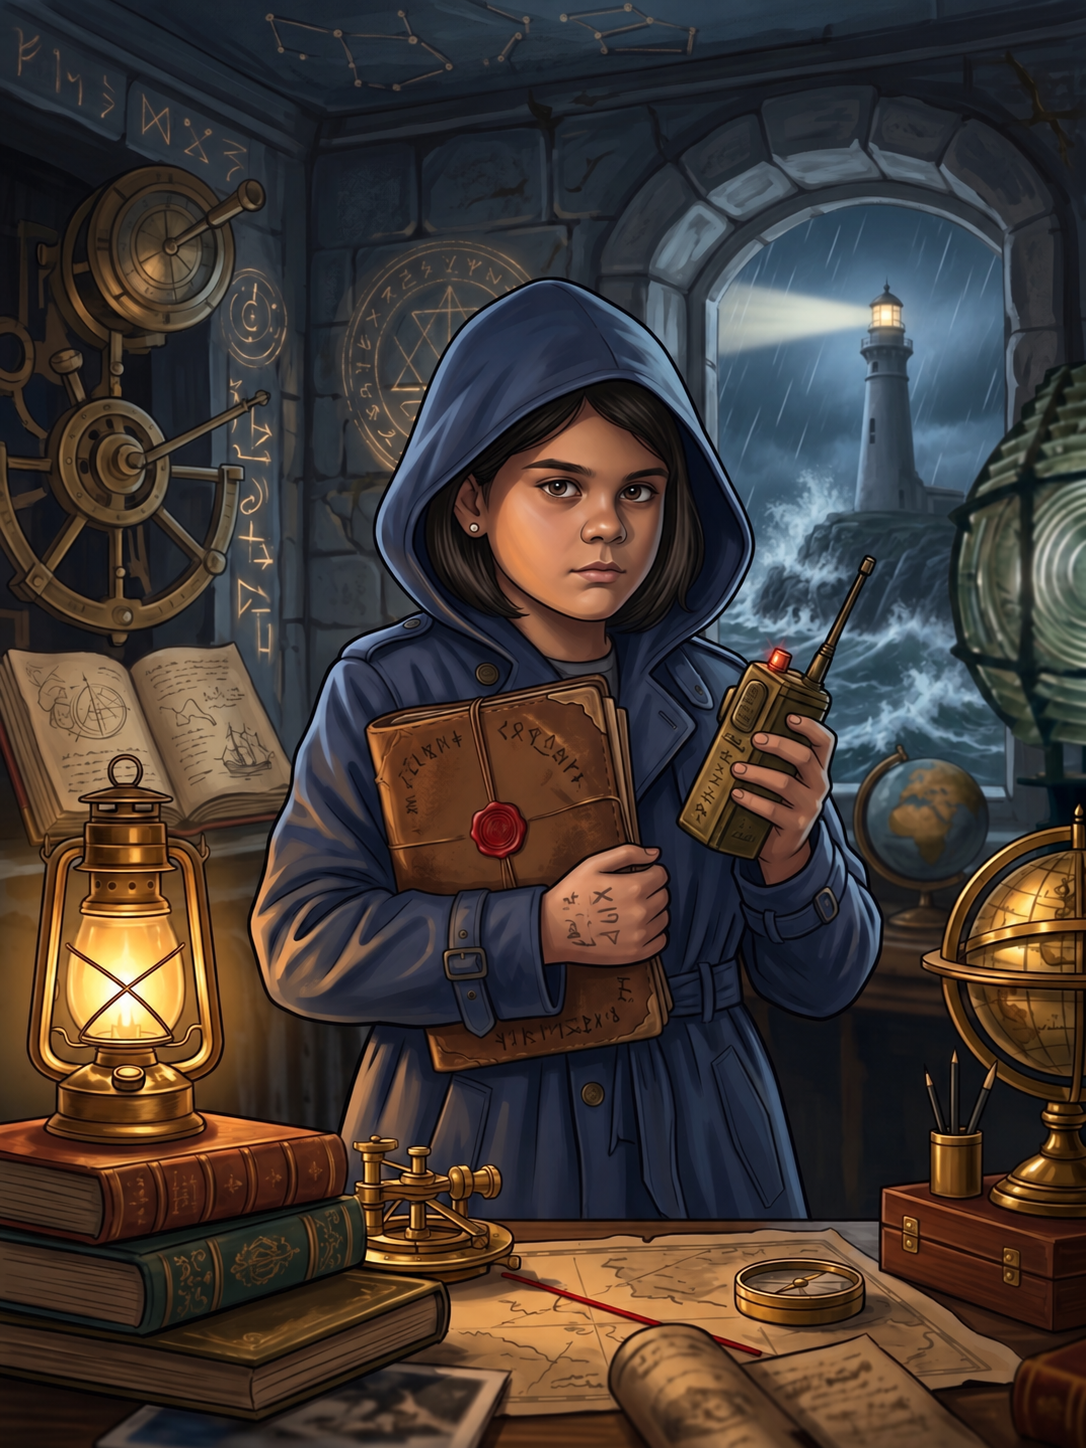
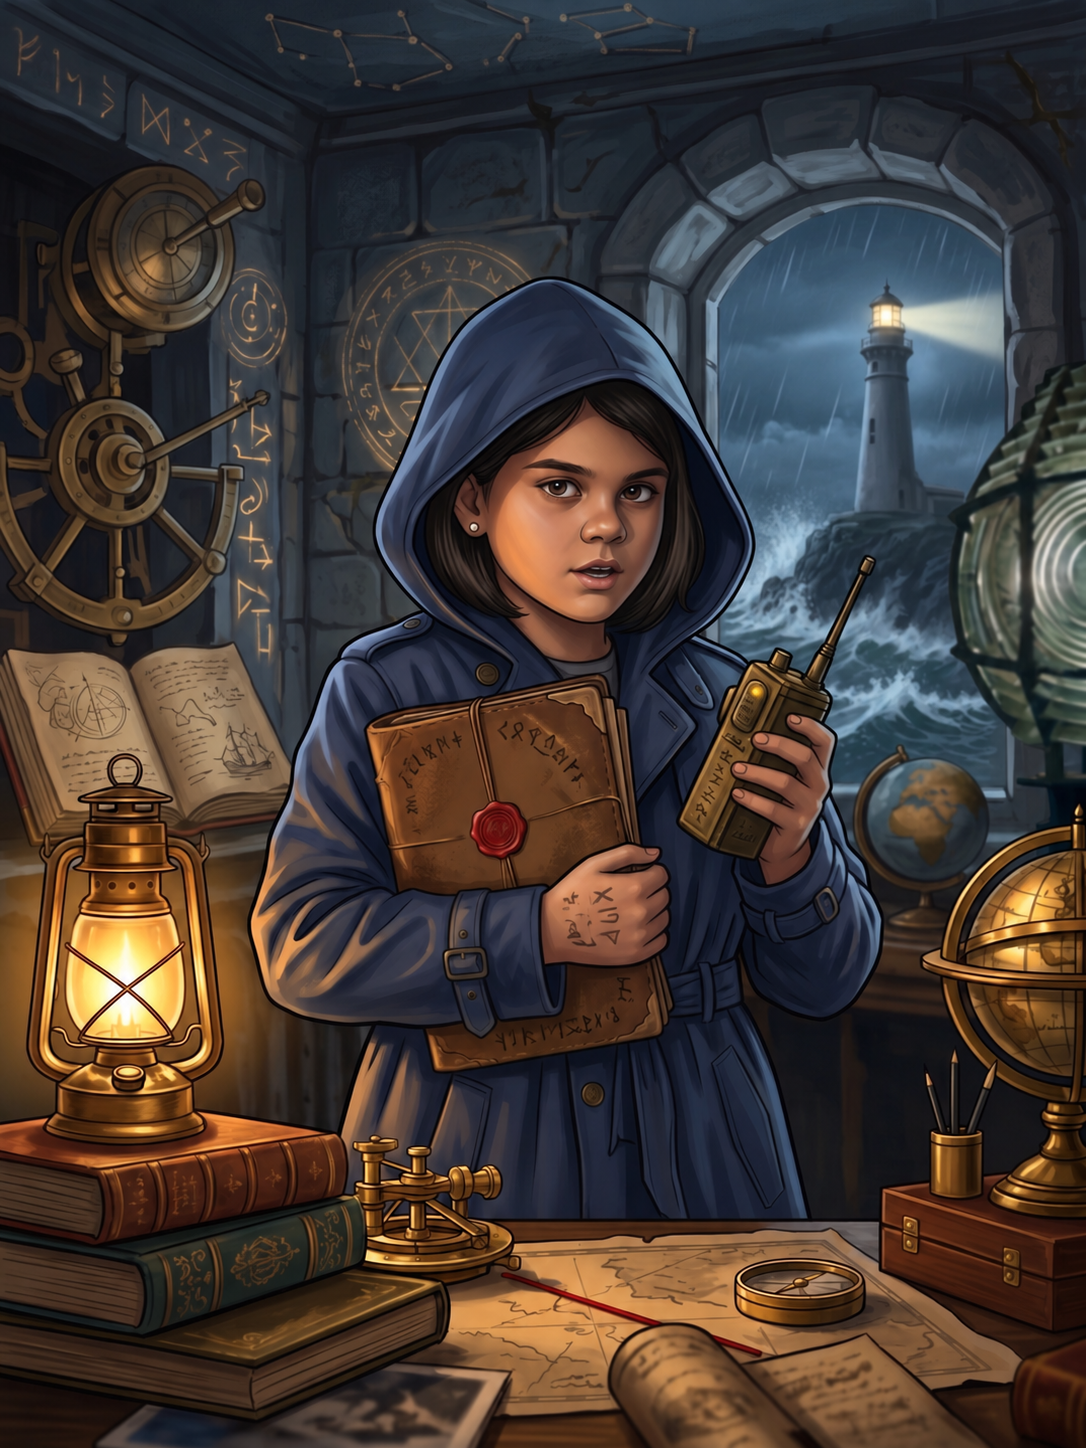
Animate transmitter scene with twenty frames

diff --git a/temp-vite-app/detectives/Briefing.tsx b/temp-vite-app/detectives/Briefing.tsx
@@ -1,7 +1,7 @@
 import TransmissionPlayer from './TransmissionPlayer';
 import { briefingCues } from './briefing-cues';
 import Typewriter from './Typewriter';
-import { useState, useRef, useEffect } from 'react';
+import { useState, useRef, useEffect, type CSSProperties } from 'react';
 import { briefing } from './mission-script';
 import { MissionIcon } from './MissionMap';
 const dossiers=[
@@ -10,7 +10,7 @@ const dossiers=[
  {title:'Los archivos',subtitle:'¿Dónde buscar las pistas?',icon:2,paragraphs:[2,3]},
  {title:'El juramento',subtitle:'¿Cuál es tu misión?',icon:8,paragraphs:[4,5,6]},
 ];
-const transmitterFrames=[1,2,3,4,5,6].map(frame=>`/los-archivos-f/images/federica-transmisor-frame-${frame}.png`);
+const transmitterFrames=Array.from({length:20},(_,index)=>`/los-archivos-f/images/federica-transmisor-frame-${index+1}.png`);
 export default function Briefing({agent,alreadyAccepted,onComplete}:{agent:string;alreadyAccepted:boolean;onComplete:()=>void}) {
  const [available,setAvailable]=useState(0);
  const [following,setFollowing]=useState(false);
@@ -61,7 +61,7 @@ export default function Briefing({agent,alreadyAccepted,onComplete}:{agent:strin
  const canAccept=alreadyAccepted||ready||discovered.length===4;
  return <section className={`briefing-page discovery-briefing ${tourStep?`briefing-tour tour-step-${tourStep}`:''} ${archiveRoute?'archive-route':''}`}>
   {tourStep>0&&<><div className="briefing-tour-shade" onClick={advanceTour} aria-hidden="true"/><div className="briefing-tour-helper" role="status"><b>{['','PUESTO SECRETO','MENSAJE RECUPERADO','TRANSMISIÓN','DOCUMENTOS CONFIDENCIALES','ARCHIVO REVELADO','ACEPTAR LA MISIÓN'][tourStep]}</b><span>Tocá la zona iluminada o continuá para seguir.</span><button type="button" onClick={advanceTour}>{tourStep===6?'ENTENDIDO':'CONTINUAR'} →</button><button type="button" className="tour-skip" onClick={()=>setTourStep(0)}>Saltar guía</button></div></>}
-  <div className="briefing-left"><figure className="federica-scene" onClick={event=>{if(tourStep===1&&!(event.target as Element).closest('button'))advanceTour();}}><div className="federica-scene-visual transmitter-story-frames">{transmitterFrames.map((src,index)=><img className={`transmitter-story-frame transmitter-story-frame-${index}`} src={src} alt={index===0?'Federica te espera en el archivo del faro con una carpeta confidencial y una radio':''} aria-hidden={index>0} key={src}/>)}<span className="lighthouse-beam" aria-hidden="true"/><span className="lighthouse-lamp" aria-hidden="true"/><span className="briefing-lantern-glow" aria-hidden="true"/><button className="scene-hotspot radio-hotspot" onClick={toggleRadio} aria-expanded={radioOpen} aria-controls="federica-transmission"><span>◉</span> Sintonizar radio</button><button className="scene-hotspot folder-hotspot" onClick={()=>{discover(0);revealArea('dossier-content');}}><span>⌕</span> Examinar archivos</button></div><figcaption><span className="signal-dot"/> CONTACTO ESTABLECIDO <b>AGENTE FEDERICA · AGENCIA F</b></figcaption></figure><section className="mission-acceptance dossier-folio" onClick={event=>{if(tourStep===6&&!(event.target as Element).closest('button'))advanceTour();}}><h2>¿Aceptás la misión?</h2><p>Revisá los documentos para acceder y abrir el expediente. El Rubí del Faro nos está esperando.</p><div className="briefing-unlock"><p>Podés escuchar la transmisión completa o abrir los cuatro documentos. No hace falta terminar cada audio: con recorrerlos alcanza.</p>{canAccept&&<p role="status">{alreadyAccepted?'La misión sigue disponible para consultarla cuando quieras.':'Autorización concedida. El caso te espera.'}</p>}<button className="primary-button" disabled={!canAccept} onClick={()=>{audio.current?.pause();documentAudio.current?.pause();onComplete();}}>{alreadyAccepted?'VOLVER A LA INVESTIGACIÓN':'ACEPTAR MISIÓN Y COMENZAR NIVEL 1'} <span>→</span></button>{!canAccept&&<button className="reading-choice" onClick={explainDocuments}>Mostrar qué falta</button>}</div></section></div>
+  <div className="briefing-left"><figure className="federica-scene" onClick={event=>{if(tourStep===1&&!(event.target as Element).closest('button'))advanceTour();}}><div className="federica-scene-visual transmitter-story-frames">{transmitterFrames.map((src,index)=><img className="transmitter-story-frame" style={{'--transmitter-frame-delay':`${-index*.4}s`} as CSSProperties} src={src} alt={index===0?'Federica te espera en el archivo del faro con una carpeta confidencial y una radio':''} aria-hidden={index>0} key={src}/>)}<button className="scene-hotspot radio-hotspot" onClick={toggleRadio} aria-expanded={radioOpen} aria-controls="federica-transmission"><span>◉</span> Sintonizar radio</button><button className="scene-hotspot folder-hotspot" onClick={()=>{discover(0);revealArea('dossier-content');}}><span>⌕</span> Examinar archivos</button></div><figcaption><span className="signal-dot"/> CONTACTO ESTABLECIDO <b>AGENTE FEDERICA · AGENCIA F</b></figcaption></figure><section className="mission-acceptance dossier-folio" onClick={event=>{if(tourStep===6&&!(event.target as Element).closest('button'))advanceTour();}}><h2>¿Aceptás la misión?</h2><p>Revisá los documentos para acceder y abrir el expediente. El Rubí del Faro nos está esperando.</p><div className="briefing-unlock"><p>Podés escuchar la transmisión completa o abrir los cuatro documentos. No hace falta terminar cada audio: con recorrerlos alcanza.</p>{canAccept&&<p role="status">{alreadyAccepted?'La misión sigue disponible para consultarla cuando quieras.':'Autorización concedida. El caso te espera.'}</p>}<button className="primary-button" disabled={!canAccept} onClick={()=>{audio.current?.pause();documentAudio.current?.pause();onComplete();}}>{alreadyAccepted?'VOLVER A LA INVESTIGACIÓN':'ACEPTAR MISIÓN Y COMENZAR NIVEL 1'} <span>→</span></button>{!canAccept&&<button className="reading-choice" onClick={explainDocuments}>Mostrar qué falta</button>}</div></section></div>
   <div className="briefing-copy"><div className="briefing-heading" onClick={()=>{if(tourStep===1)advanceTour();}}><p className="eyebrow">EXPLORÁ EL PUESTO SECRETO</p><h1>Agente {agent},<br/>hay algo que debés descubrir.</h1></div><p className="briefing-deck" onClick={()=>{if(tourStep===2)advanceTour();}}><Typewriter text="Federica dejó una transmisión y cuatro documentos. Escuchá la radio o descubrí los documentos, una parte a la vez, para reunir los detalles de tu misión."/></p>
    <div className={`transmission-receiver ${playing?'is-playing':''}`} onClick={event=>{if(tourStep===3&&!(event.target as Element).closest('button,input'))advanceTour();}}>
     <button className="transmission-trigger" onClick={toggleRadio} aria-expanded={radioOpen} aria-controls="federica-transmission">

diff --git a/temp-vite-app/detectives/style.css b/temp-vite-app/detectives/style.css
@@ -2158,50 +2158,26 @@ body:has(.level-three-story-dialog[open]) .topbar{background:#03131d!important}
   }
 }
 
-/* Puesto secreto: los cuatro fotogramas entregados animan mar y lluvia sin
-   encoger la ilustración. Las luces se posicionan sobre el faro y el farol. */
+/* Puesto secreto: 20 fotogramas consecutivos de Fede con el transmisor.
+   La lluvia, las olas, el faro, el farol y su gesto ya viven en las imágenes. */
 .federica-scene-visual.transmitter-story-frames{position:relative;isolation:isolate}
 .federica-scene-visual.transmitter-story-frames>.transmitter-story-frame{
   position:absolute!important;z-index:0!important;inset:0!important;
   display:block!important;width:100%!important;height:100%!important;
   object-fit:cover!important;object-position:center!important;opacity:0;
-  animation:transmitter-story-frames 5.4s linear infinite!important;
-  will-change:opacity,transform
-}
-.federica-scene-visual.transmitter-story-frames>.transmitter-story-frame-0{animation-delay:0s!important}
-.federica-scene-visual.transmitter-story-frames>.transmitter-story-frame-1{animation-delay:-4.5s!important}
-.federica-scene-visual.transmitter-story-frames>.transmitter-story-frame-2{animation-delay:-3.6s!important}
-.federica-scene-visual.transmitter-story-frames>.transmitter-story-frame-3{animation-delay:-2.7s!important}
-.federica-scene-visual.transmitter-story-frames>.transmitter-story-frame-4{animation-delay:-1.8s!important}
-.federica-scene-visual.transmitter-story-frames>.transmitter-story-frame-5{animation-delay:-.9s!important}
-.federica-scene-visual.transmitter-story-frames .lighthouse-lamp{
-  z-index:4!important;left:81.8%!important;top:24.1%!important;width:3.4%!important;
-  animation:transmitter-lighthouse-glow 2.8s ease-in-out infinite!important
-}
-.federica-scene-visual.transmitter-story-frames .lighthouse-beam{
-  z-index:3!important;right:18.2%!important;top:18.4%!important;width:50%!important;height:14%!important;
-  animation:transmitter-lighthouse-sweep 5.4s ease-in-out infinite alternate!important
-}
-.federica-scene-visual.transmitter-story-frames .briefing-lantern-glow{
-  z-index:3!important;animation:transmitter-lantern-pulse 2.4s ease-in-out infinite!important
+  animation:transmitter-story-frames 8s linear infinite!important;
+  animation-delay:var(--transmitter-frame-delay)!important;
+  will-change:opacity
 }
 .federica-scene-visual.transmitter-story-frames .scene-hotspot{z-index:6!important}
 @keyframes transmitter-story-frames{
   0%{opacity:0}
-  7%,16.7%{opacity:1}
-  26%,100%{opacity:0}
+  1.25%,4.25%{opacity:1}
+  5.5%,100%{opacity:0}
 }
-@keyframes transmitter-lighthouse-sweep{
-  from{transform:rotate(-6deg);opacity:.3}45%{opacity:.94}to{transform:rotate(7deg);opacity:.4}
-}
-@keyframes transmitter-lighthouse-glow{0%,100%{opacity:.56;filter:brightness(.94)}50%{opacity:1;filter:brightness(1.35)}}
-@keyframes transmitter-lantern-pulse{0%,100%{opacity:.42}48%{opacity:1}56%{opacity:.68}}
 @media(prefers-reduced-motion:reduce){
   .federica-scene-visual.transmitter-story-frames>.transmitter-story-frame{animation:none!important;opacity:0!important}
-  .federica-scene-visual.transmitter-story-frames>.transmitter-story-frame-0{opacity:1!important}
-  .federica-scene-visual.transmitter-story-frames .lighthouse-lamp,
-  .federica-scene-visual.transmitter-story-frames .lighthouse-beam,
-  .federica-scene-visual.transmitter-story-frames .briefing-lantern-glow{animation:none!important}
+  .federica-scene-visual.transmitter-story-frames>.transmitter-story-frame:first-child{opacity:1!important}
 }
 
 /* Acción de cada mensaje: siempre visible en el encabezado propio de la página,
